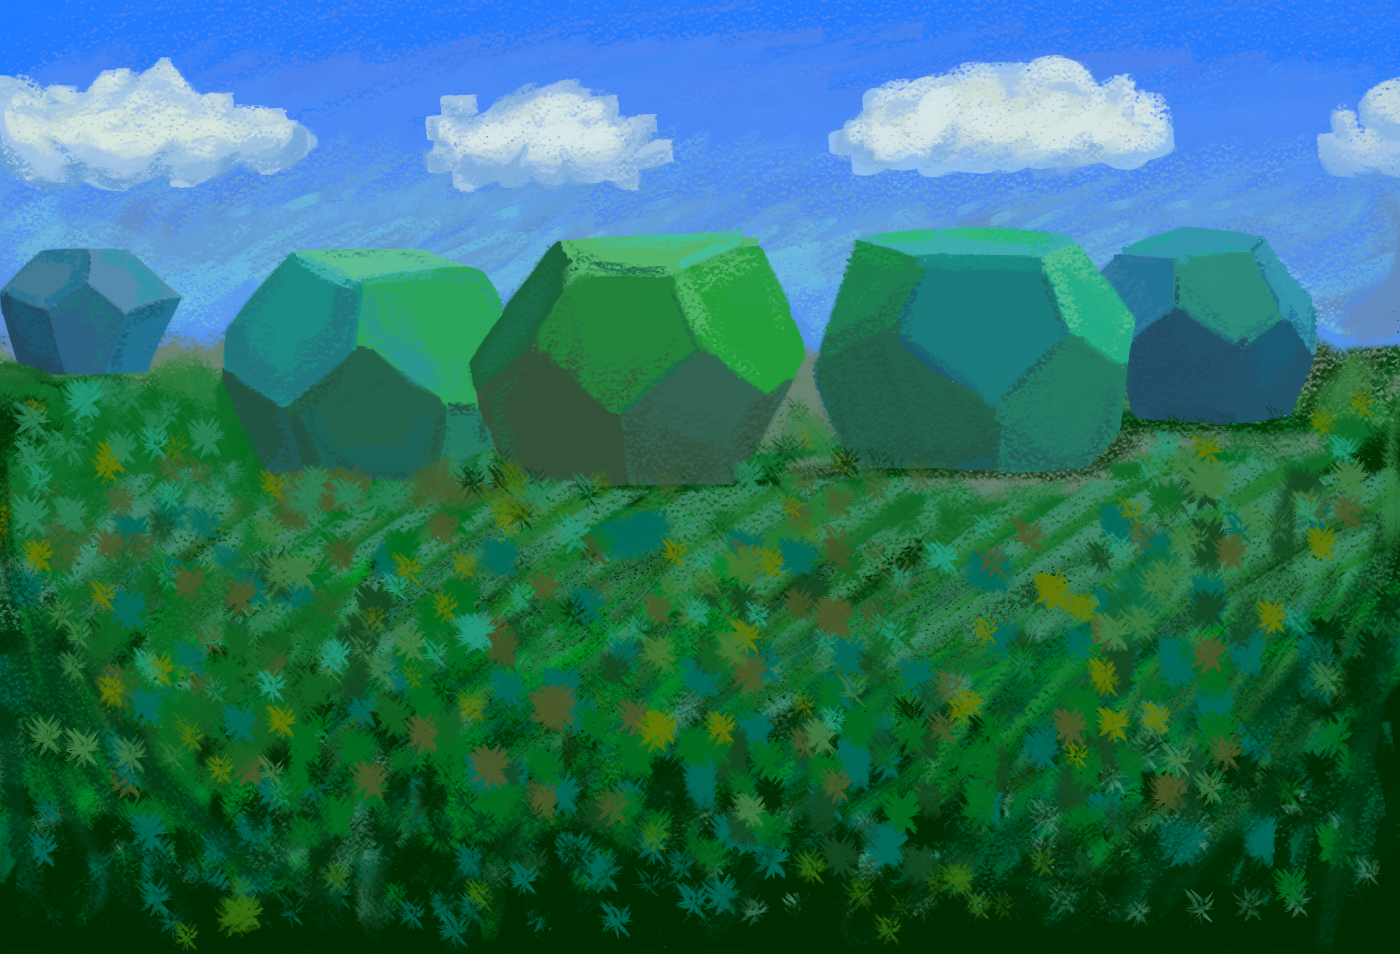
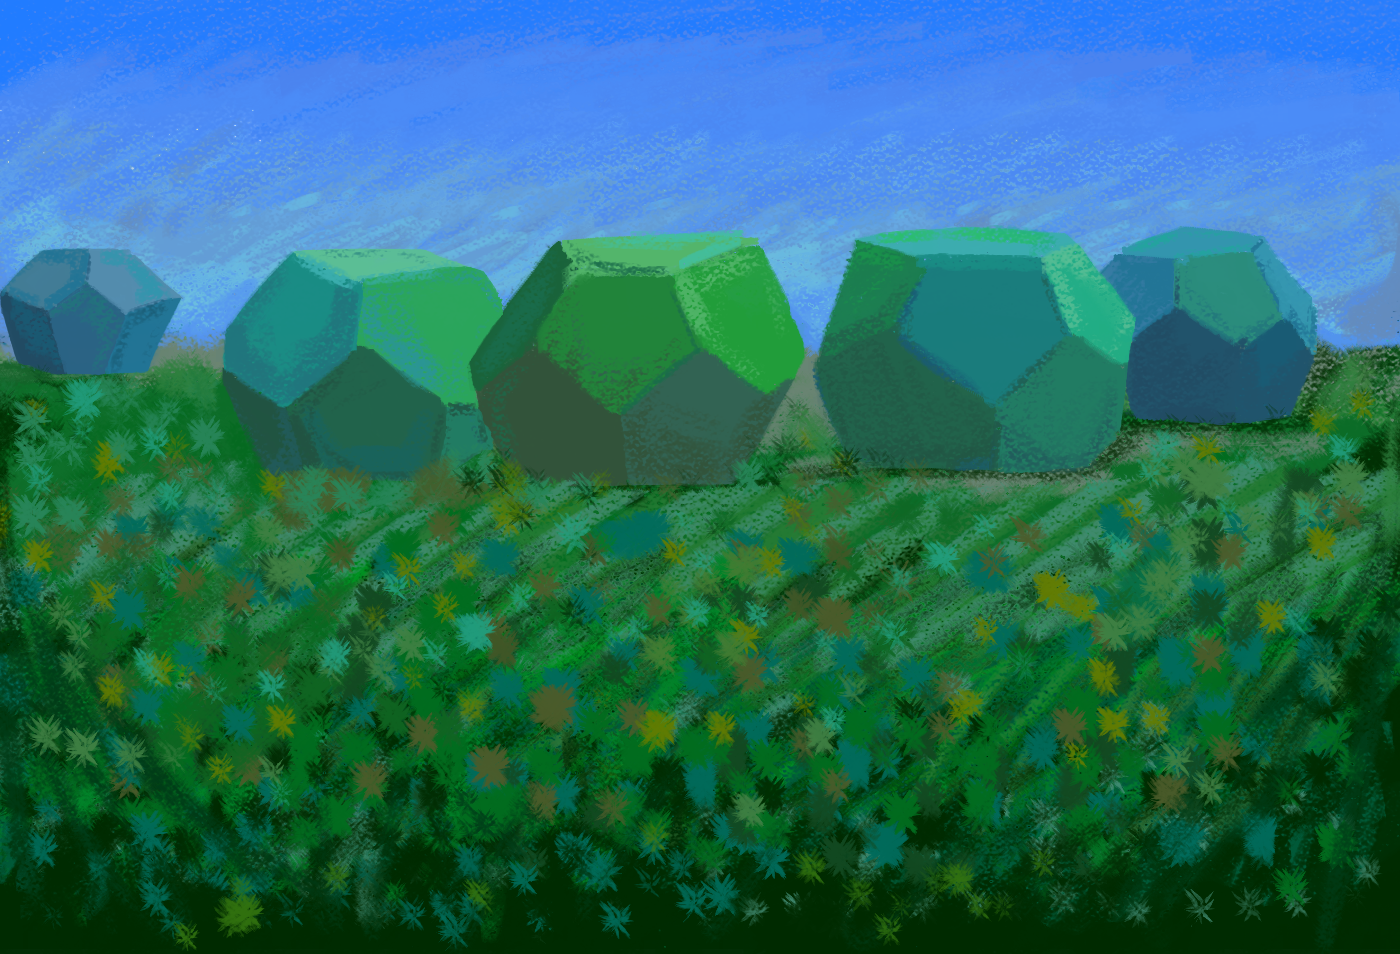
scrolling clouds in background

diff --git a/src/index.css b/src/index.css
@@ -23,6 +23,27 @@ html {
     overflow: hidden;
 }
 
+body {
+    height: 100vh;
+    margin: 0;
+    padding: 0;
+
+    background-image: url(bg/mrn-clouds.png);
+    background-repeat: repeat-x;
+    background-size: contain;
+    animation: clouds linear 30s infinite normal;
+}
+
+@keyframes clouds {
+    from {
+        background-position: 0 0;
+    }
+
+    to {
+        background-position: 100vw 0;
+    }
+}
+
 * {
     box-sizing: border-box;
 
